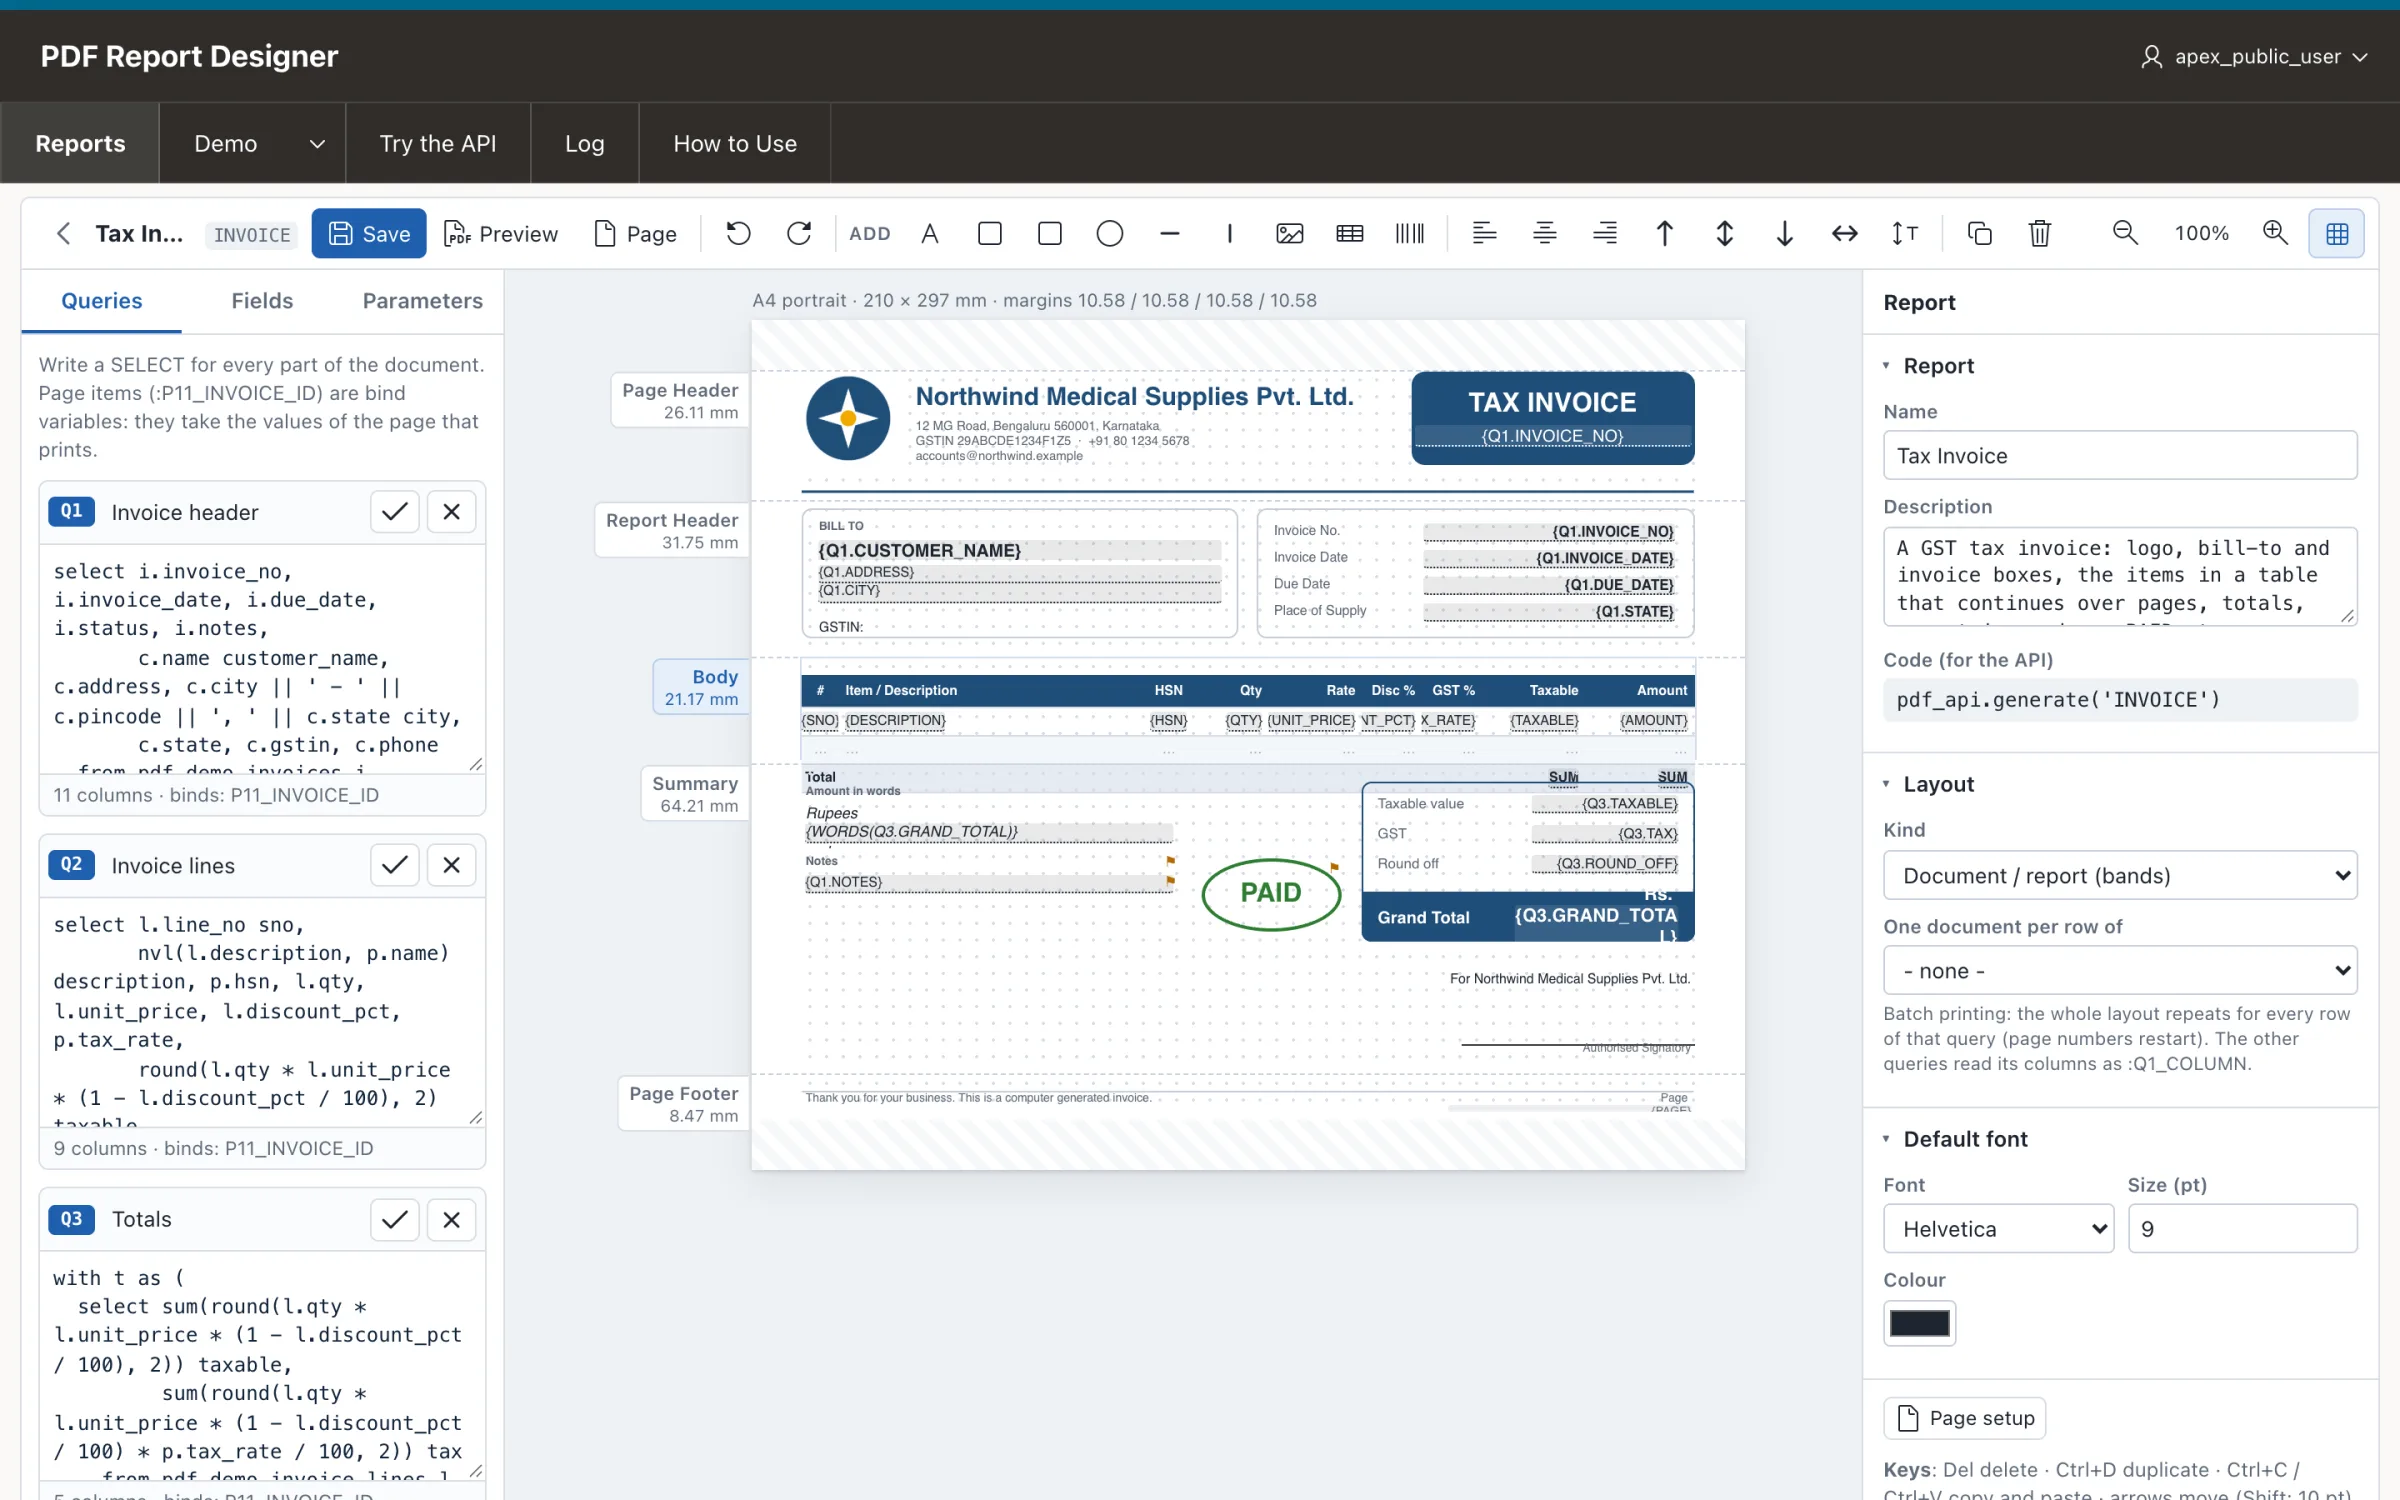
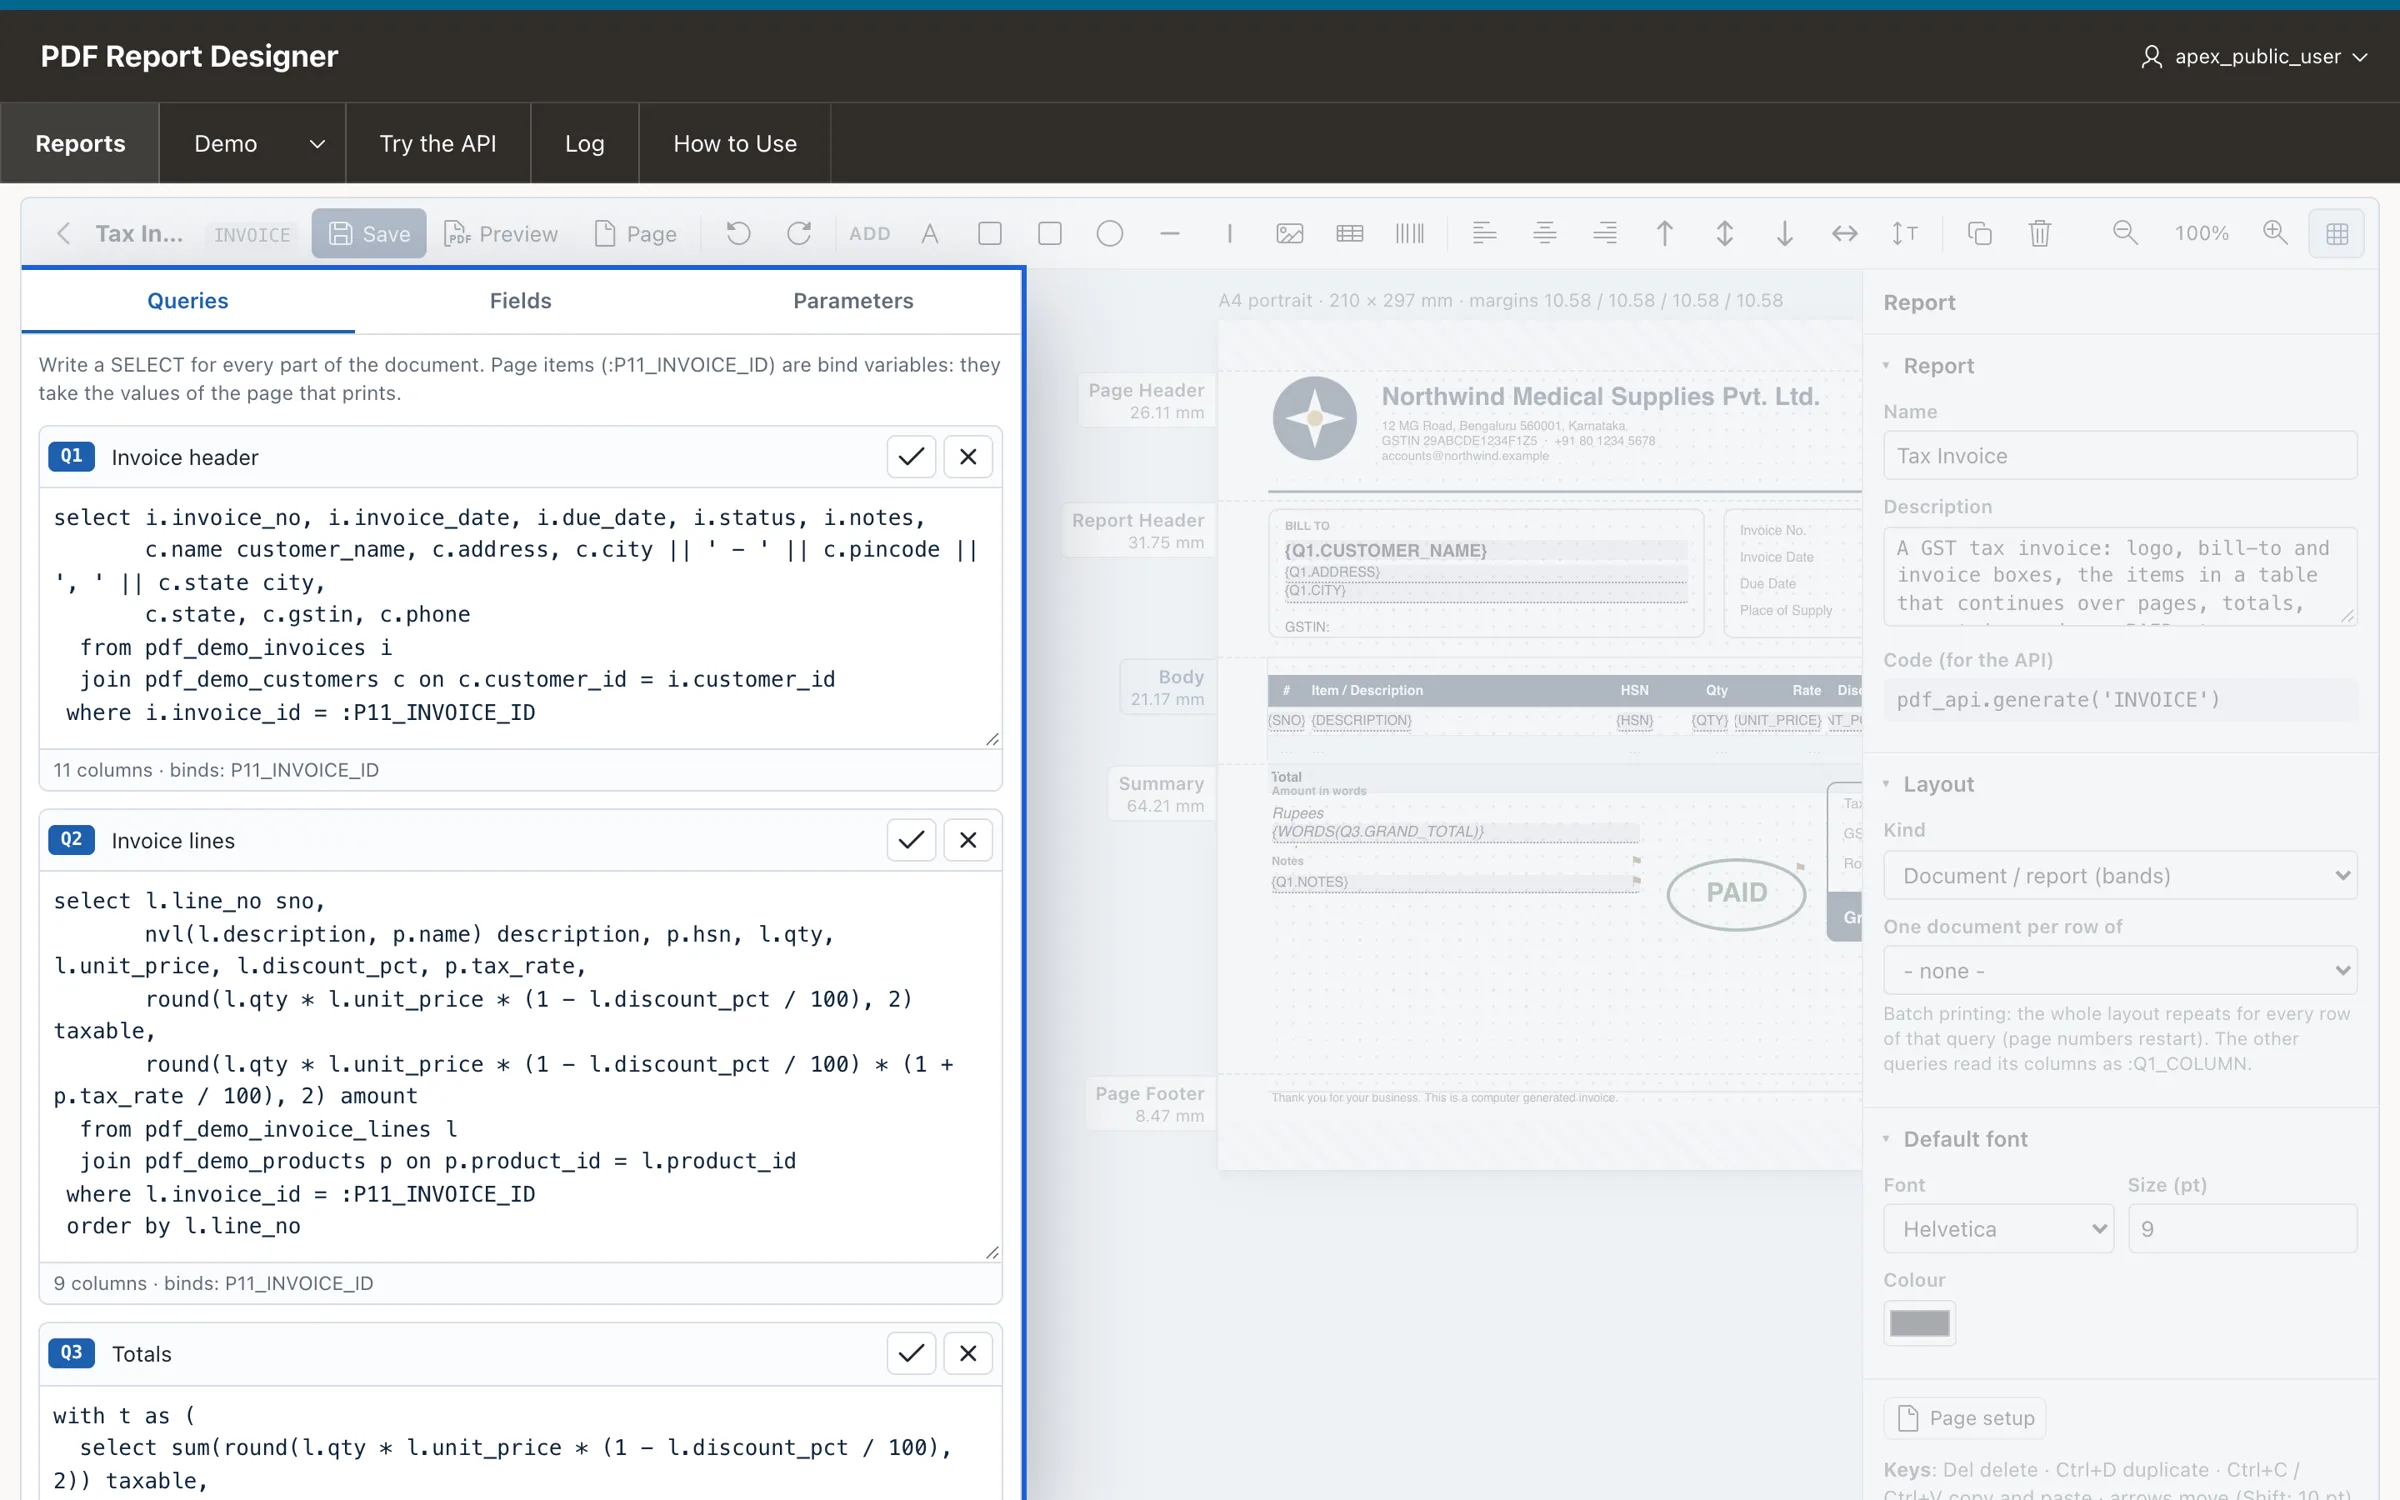
Landing: distinct Queries screenshot, 'Developed by Vinish Kapoor' credit

diff --git a/landing/vinaura-landing.html b/landing/vinaura-landing.html
@@ -617,6 +617,9 @@ body:has(#vinaura-lp){margin:0}
 #vinaura-lp .va-cmp-bar span em{font-style:normal;color:var(--muted);font-weight:500}
 #vinaura-lp .va-show-stage{aspect-ratio:2400/1500}
 
+#vinaura-lp .va-byline{margin-top:18px;font-size:14.5px;color:rgba(255,255,255,.78)}
+#vinaura-lp .va-byline a{color:#fff;font-weight:600;text-decoration:underline;text-underline-offset:3px}
+
 /* development and production */
 #vinaura-lp .va-env{display:grid;grid-template-columns:1fr auto 1fr;gap:18px;align-items:stretch}
 #vinaura-lp .va-env-card{position:relative;border-radius:26px;padding:32px;background:#fff;border:1px solid var(--line);border-top:4px solid var(--c)}
@@ -807,6 +810,7 @@ body:has(#vinaura-lp){margin:0}
         <a class="va-btn va-btn-primary" href="#va-get">Request VinAura <svg><use href="#va-i-arrow"/></svg></a>
         <a class="va-btn va-btn-ghost" href="#va-tutorial"><svg><use href="#va-i-book"/></svg> Read the tutorial</a>
       </div>
+      <p class="va-byline">Developed by <a href="https://vinish.dev" target="_blank" rel="noopener">Vinish Kapoor</a></p>
       <ul class="va-chips" aria-label="What it makes">
         <li style="--c:var(--mustard)">Invoices</li><li style="--c:var(--teal)">Statements</li><li style="--c:var(--terra)">Labels &amp; barcodes</li><li style="--c:var(--navy)">Batch PDFs</li><li style="--c:var(--green)">Totals &amp; groups</li><li style="--c:var(--rose)">Page X of Y</li><li style="--c:var(--brand)">One PL/SQL call</li>
       </ul>
@@ -1004,11 +1008,11 @@ end;</code></pre></div>
   <div class="va-wrap">
     <div class="va-head va-reveal">
       <span class="va-eyebrow">Sample PDFs</span>
-      <h2 class="va-h2">Real PDFs, made by VinAura</h2>
+      <h2 class="va-h2">Real PDFs from the VinAura engine</h2>
       <p class="va-lead">These come with VinAura as ready-made reports on demo data. Open one, change it in the designer, and see what the engine does with long tables, totals and page breaks.</p>
     </div>
     <div class="va-gallery">
-      <figure class="va-reveal"><button type="button" class="va-sheet" data-zoom="https://vinish.dev/wp-content/uploads/2026/09/vinaura-pdf-invoice.webp" data-cap="A GST tax invoice with a logo, a bill-to box, the lines, totals, the amount in words and a PAID stamp."><img src="https://vinish.dev/wp-content/uploads/2026/09/vinaura-pdf-invoice.webp" alt="Tax invoice PDF made by VinAura with a PAID stamp" loading="lazy" width="1400" height="1980"><span class="va-zoom"><svg><use href="#va-i-zoom"/></svg></span></button><figcaption><b>Tax invoice</b>Logo, boxes, totals, amount in words and a PAID stamp that prints only on paid invoices.</figcaption></figure>
+      <figure class="va-reveal"><button type="button" class="va-sheet" data-zoom="https://vinish.dev/wp-content/uploads/2026/09/vinaura-pdf-invoice.webp" data-cap="A GST tax invoice with a logo, a bill-to box, the lines, totals, the amount in words and a PAID stamp."><img src="https://vinish.dev/wp-content/uploads/2026/09/vinaura-pdf-invoice.webp" alt="Tax invoice PDF from VinAura with a PAID stamp" loading="lazy" width="1400" height="1980"><span class="va-zoom"><svg><use href="#va-i-zoom"/></svg></span></button><figcaption><b>Tax invoice</b>Logo, boxes, totals, amount in words and a PAID stamp that prints only on paid invoices.</figcaption></figure>
       
       <figure class="va-reveal"><button type="button" class="va-sheet" data-zoom="https://vinish.dev/wp-content/uploads/2026/09/vinaura-pdf-statement.webp" data-cap="A statement of account: every invoice with paid and balance, overdue days and the balance in words."><img src="https://vinish.dev/wp-content/uploads/2026/09/vinaura-pdf-statement.webp" alt="Customer statement of account PDF" loading="lazy" width="1400" height="1980"><span class="va-zoom"><svg><use href="#va-i-zoom"/></svg></span></button><figcaption><b>Statement of account</b>Totals of a query in the header, paid and balance per invoice, overdue days.</figcaption></figure>
       <figure class="va-reveal"><button type="button" class="va-sheet" data-zoom="https://vinish.dev/wp-content/uploads/2026/09/vinaura-pdf-labels.webp" data-cap="Shelf labels: 3 across and 8 down on A4, with the name, SKU, a Code 128 barcode and the price."><img src="https://vinish.dev/wp-content/uploads/2026/09/vinaura-pdf-labels.webp" alt="Sheet of product labels with barcodes" loading="lazy" width="1400" height="1980"><span class="va-zoom"><svg><use href="#va-i-zoom"/></svg></span></button><figcaption><b>Product labels</b>24 labels on an A4 sheet, each with a Code 128 barcode.</figcaption></figure>
@@ -1431,7 +1435,7 @@ end;</code></pre></div>
       <nav><a href="#va-how">How it works</a><a href="#va-features">Features</a><a href="#va-pdfs">Sample PDFs</a><a href="#va-tutorial">Tutorial</a><a href="#va-faq">FAQ</a><a href="#va-get">Request VinAura</a></nav>
     </div>
     <div class="va-foot-mark" aria-hidden="true"><span>VinAura</span></div>
-    <div class="va-foot-bot"><span>VinAura &middot; Visual PDF Report Designer for Oracle APEX</span><span>Built by <a href="https://vinish.dev" target="_blank" rel="noopener">Vinish Kapoor</a></span></div>
+    <div class="va-foot-bot"><span>VinAura &middot; Visual PDF Report Designer for Oracle APEX</span><span>Developed by <a href="https://vinish.dev" target="_blank" rel="noopener">Vinish Kapoor</a></span></div>
   </div>
 </footer>
 

diff --git a/landing/src/body.html b/landing/src/body.html
@@ -43,6 +43,7 @@
         <a class="va-btn va-btn-primary" href="#va-get">Request VinAura <svg><use href="#va-i-arrow"/></svg></a>
         <a class="va-btn va-btn-ghost" href="#va-tutorial"><svg><use href="#va-i-book"/></svg> Read the tutorial</a>
       </div>
+      <p class="va-byline">Developed by <a href="https://vinish.dev" target="_blank" rel="noopener">Vinish Kapoor</a></p>
       <ul class="va-chips" aria-label="What it makes">
         <li style="--c:var(--mustard)">Invoices</li><li style="--c:var(--teal)">Statements</li><li style="--c:var(--terra)">Labels &amp; barcodes</li><li style="--c:var(--navy)">Batch PDFs</li><li style="--c:var(--green)">Totals &amp; groups</li><li style="--c:var(--rose)">Page X of Y</li><li style="--c:var(--brand)">One PL/SQL call</li>
       </ul>
@@ -240,11 +241,11 @@ end;</code></pre></div>
   <div class="va-wrap">
     <div class="va-head va-reveal">
       <span class="va-eyebrow">Sample PDFs</span>
-      <h2 class="va-h2">Real PDFs, made by VinAura</h2>
+      <h2 class="va-h2">Real PDFs from the VinAura engine</h2>
       <p class="va-lead">These come with VinAura as ready-made reports on demo data. Open one, change it in the designer, and see what the engine does with long tables, totals and page breaks.</p>
     </div>
     <div class="va-gallery">
-      <figure class="va-reveal"><button type="button" class="va-sheet" data-zoom="{{IMG}}vinaura-pdf-invoice.webp" data-cap="A GST tax invoice with a logo, a bill-to box, the lines, totals, the amount in words and a PAID stamp."><img src="{{IMG}}vinaura-pdf-invoice.webp" alt="Tax invoice PDF made by VinAura with a PAID stamp" loading="lazy" width="1400" height="1980"><span class="va-zoom"><svg><use href="#va-i-zoom"/></svg></span></button><figcaption><b>Tax invoice</b>Logo, boxes, totals, amount in words and a PAID stamp that prints only on paid invoices.</figcaption></figure>
+      <figure class="va-reveal"><button type="button" class="va-sheet" data-zoom="{{IMG}}vinaura-pdf-invoice.webp" data-cap="A GST tax invoice with a logo, a bill-to box, the lines, totals, the amount in words and a PAID stamp."><img src="{{IMG}}vinaura-pdf-invoice.webp" alt="Tax invoice PDF from VinAura with a PAID stamp" loading="lazy" width="1400" height="1980"><span class="va-zoom"><svg><use href="#va-i-zoom"/></svg></span></button><figcaption><b>Tax invoice</b>Logo, boxes, totals, amount in words and a PAID stamp that prints only on paid invoices.</figcaption></figure>
       
       <figure class="va-reveal"><button type="button" class="va-sheet" data-zoom="{{IMG}}vinaura-pdf-statement.webp" data-cap="A statement of account: every invoice with paid and balance, overdue days and the balance in words."><img src="{{IMG}}vinaura-pdf-statement.webp" alt="Customer statement of account PDF" loading="lazy" width="1400" height="1980"><span class="va-zoom"><svg><use href="#va-i-zoom"/></svg></span></button><figcaption><b>Statement of account</b>Totals of a query in the header, paid and balance per invoice, overdue days.</figcaption></figure>
       <figure class="va-reveal"><button type="button" class="va-sheet" data-zoom="{{IMG}}vinaura-pdf-labels.webp" data-cap="Shelf labels: 3 across and 8 down on A4, with the name, SKU, a Code 128 barcode and the price."><img src="{{IMG}}vinaura-pdf-labels.webp" alt="Sheet of product labels with barcodes" loading="lazy" width="1400" height="1980"><span class="va-zoom"><svg><use href="#va-i-zoom"/></svg></span></button><figcaption><b>Product labels</b>24 labels on an A4 sheet, each with a Code 128 barcode.</figcaption></figure>
@@ -667,7 +668,7 @@ end;</code></pre></div>
       <nav><a href="#va-how">How it works</a><a href="#va-features">Features</a><a href="#va-pdfs">Sample PDFs</a><a href="#va-tutorial">Tutorial</a><a href="#va-faq">FAQ</a><a href="#va-get">Request VinAura</a></nav>
     </div>
     <div class="va-foot-mark" aria-hidden="true"><span>VinAura</span></div>
-    <div class="va-foot-bot"><span>VinAura &middot; Visual PDF Report Designer for Oracle APEX</span><span>Built by <a href="https://vinish.dev" target="_blank" rel="noopener">Vinish Kapoor</a></span></div>
+    <div class="va-foot-bot"><span>VinAura &middot; Visual PDF Report Designer for Oracle APEX</span><span>Developed by <a href="https://vinish.dev" target="_blank" rel="noopener">Vinish Kapoor</a></span></div>
   </div>
 </footer>
 

diff --git a/landing/src/extra.css b/landing/src/extra.css
@@ -36,6 +36,9 @@
 #vinaura-lp .va-cmp-bar span em{font-style:normal;color:var(--muted);font-weight:500}
 #vinaura-lp .va-show-stage{aspect-ratio:2400/1500}
 
+#vinaura-lp .va-byline{margin-top:18px;font-size:14.5px;color:rgba(255,255,255,.78)}
+#vinaura-lp .va-byline a{color:#fff;font-weight:600;text-decoration:underline;text-underline-offset:3px}
+
 /* development and production */
 #vinaura-lp .va-env{display:grid;grid-template-columns:1fr auto 1fr;gap:18px;align-items:stretch}
 #vinaura-lp .va-env-card{position:relative;border-radius:26px;padding:32px;background:#fff;border:1px solid var(--line);border-top:4px solid var(--c)}
